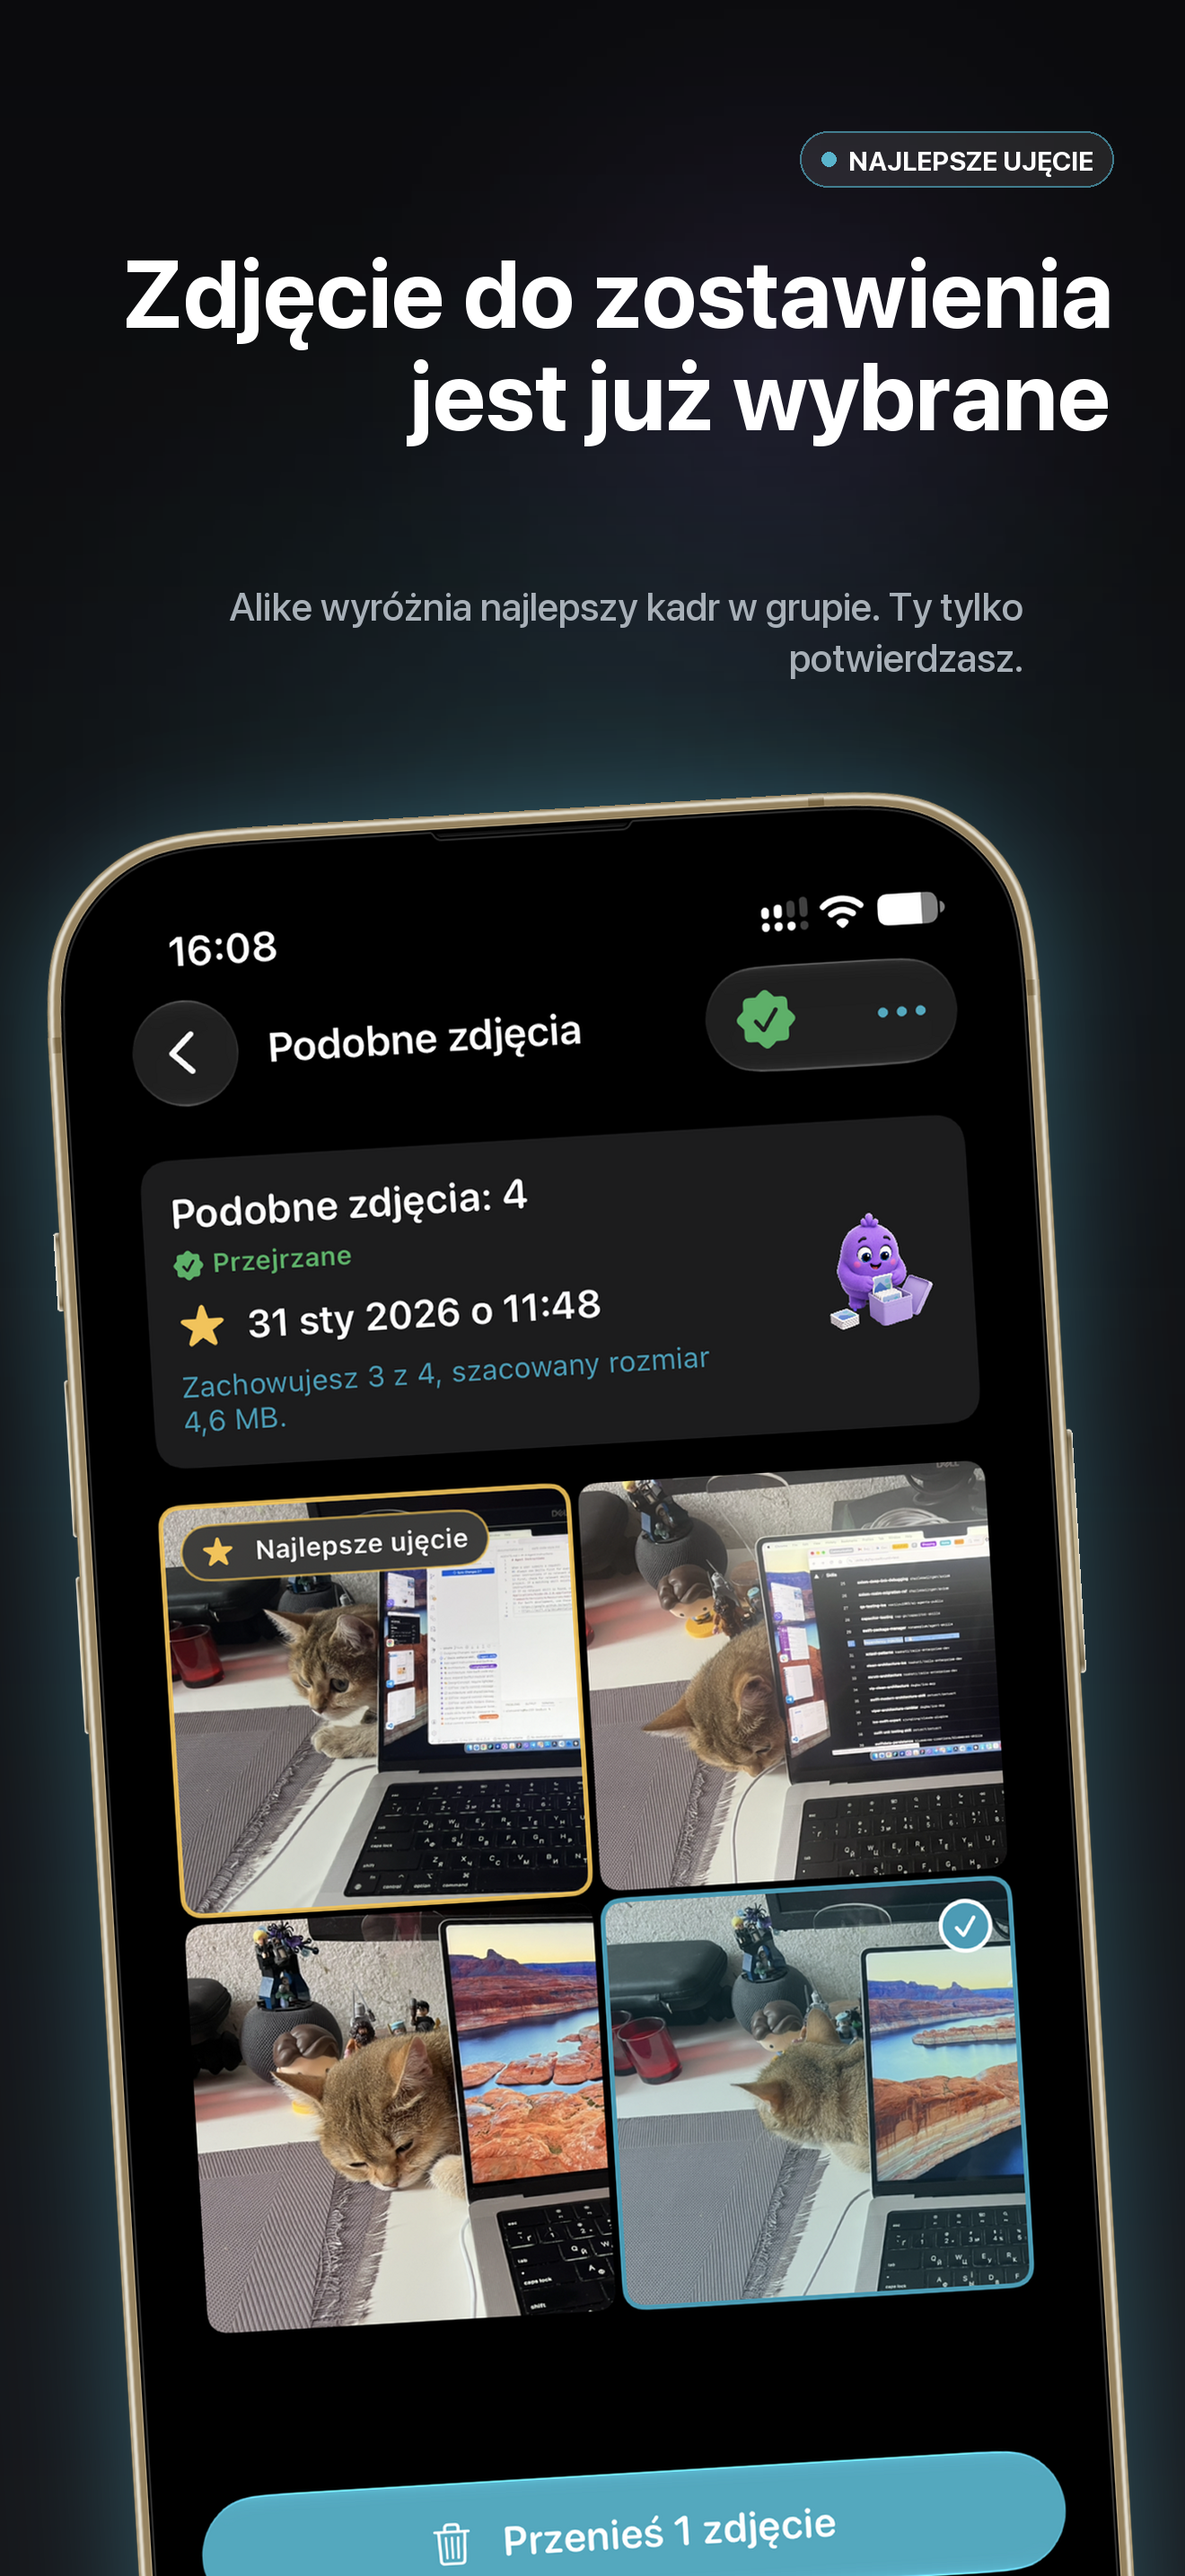
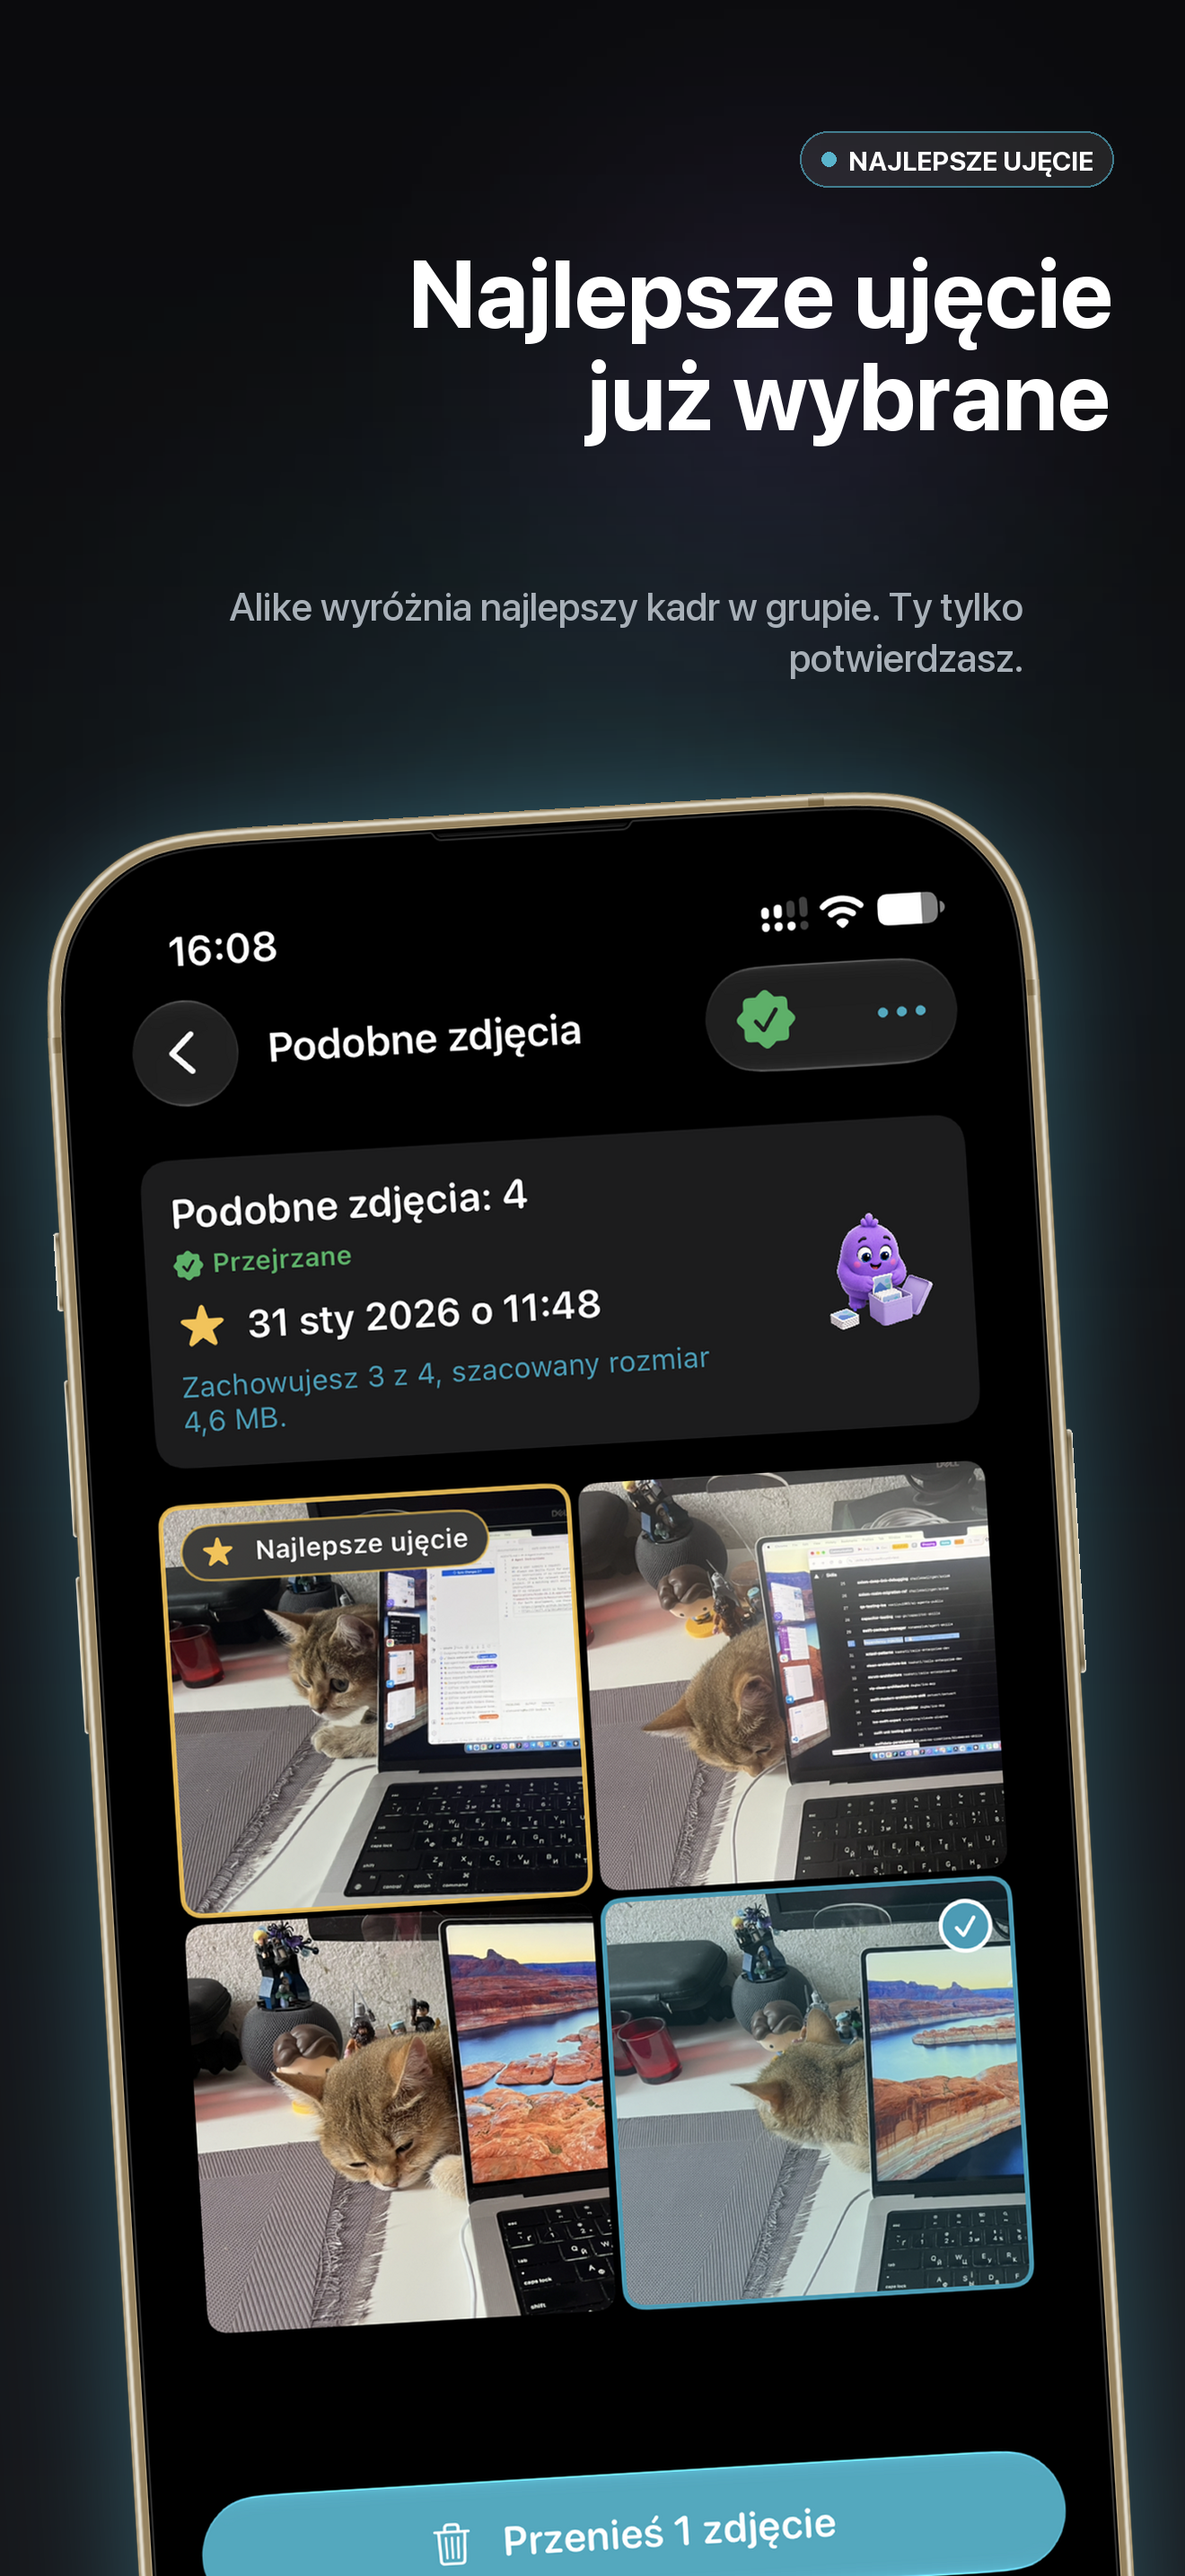
🌐 Polish: correct scan allowances, subscription disclosures and data-preservation wording; review App Store metadata and refresh two screenshot captions

Changed region(s): [[0.0932, 0.0931, 0.7765, 0.1862], [0.8076, 0.0931, 0.9318, 0.1552]]

diff --git a/tools/prepare_app_store_upload_bundle.py b/tools/prepare_app_store_upload_bundle.py
@@ -817,17 +817,16 @@ ALIKE PRO
 
 Alike Pro is een abonnement met automatische verlenging, met een jaar- en een maandplan, geprijsd in je eigen valuta. Het jaarabonnement bevat een gratis proefperiode van 7 dagen voor nieuwe abonnees die daarvoor in aanmerking komen, en de facturering begint zodra de proefperiode afloopt. Abonnementen worden automatisch verlengd, tenzij ze minstens 24 uur voor het einde van de huidige periode worden opgezegd. Het bedrag wordt afgeschreven van je Apple Account. Je kunt je abonnement altijd beheren of opzeggen in de iOS-instellingen."""
 
-PL_DESCRIPTION = """\
-Odzyskaj miejsce, a żadne zdjęcie nie opuści Twojego urządzenia: Alike znajduje prawie identyczne zdjęcia ukryte w Twojej bibliotece, grupuje je, wybiera najlepsze ujęcie w każdej grupie i pomaga uporządkować resztę.
+PL_DESCRIPTION = """Alike grupuje niemal identyczne zdjęcia, wybiera najlepsze i pomaga usunąć resztę. Żadne zdjęcie nie opuszcza iPhone’a.
 
 JAK TO DZIAŁA
 Skanuj. Alike porównuje bibliotekę za pomocą frameworka Vision od Apple, w całości na Twoim iPhonie. Porównywane są zdjęcia zrobione blisko siebie w czasie i miejscu, a zrzuty ekranu nie trafiają do wyników, dopóki o nie nie poprosisz.
-Przejrzyj. Każda grupa otwiera się z już wybranym najlepszym ujęciem, więc decyzja zajmuje sekundy. Zostaw tylko najlepsze, zaznacz wszystkie oprócz najlepszego albo wybierz ręcznie.
-Uporządkuj. Potwierdź, a wybrane zdjęcia trafią do albumu „Ostatnio usunięte”, gdzie iOS trzyma je około 30 dni.
+Przejrzyj. Najlepsze ujęcie jest już wybrane. Zachowaj tylko je, zaznacz wszystkie pozostałe albo wybierz ręcznie.
+Uporządkuj. Potwierdź, a wybrane zdjęcia trafią do albumu „Ostatnio usunięte”, gdzie iOS przechowuje je przez około 30 dni. Miejsce może nie zostać zwolnione, dopóki zdjęcia nie zostaną trwale usunięte.
 
-PRYWATNOŚĆ TO CAŁY SENS
+PRYWATNOŚĆ PRZEDE WSZYSTKIM
 - Cała analiza działa na urządzeniu, na frameworku Vision od Apple.
-- Żadne zdjęcie, miniatura ani odcisk cech nigdy nie jest wysyłany do sieci.
+- Alike nigdy nie wysyła do sieci zdjęć, miniatur ani wektorów cech.
 - Bez konta, bez logowania, bez serwera Alike.
 - Bez analityki, bez śledzenia, bez identyfikatorów reklamowych.
 - Bez reklam w jakiejkolwiek części aplikacji.
@@ -835,7 +834,7 @@ PRYWATNOŚĆ TO CAŁY SENS
 - Nic nie zostaje usunięte bez Twojego wyraźnego potwierdzenia.
 
 ZROBIONE DLA PRAWDZIWYCH BIBLIOTEK
-- Trzy poziomy czułości, od niemal identycznych ujęć po szersze sito.
+- Trzy poziomy czułości, od niemal identycznych ujęć po mniej podobne zdjęcia.
 - Wykrywanie najlepszego ujęcia mierzone na samych zdjęciach — ostrość, ekspozycja, twarze i szum — więc każda grupa ma sensowny domyślny wybór do zachowania.
 - Opcjonalna poprawa jednym dotknięciem dla zdjęcia, które zostawiasz; oryginał zawsze o jedno dotknięcie dalej.
 - Znaczniki przeglądu: Nowe, W trakcie przeglądu, Przejrzane, Wymaga przeglądu.
@@ -845,7 +844,7 @@ ZROBIONE DLA PRAWDZIWYCH BIBLIOTEK
 - Przestronny układ jednokolumnowy albo gęstsza siatka, przełączane w każdej chwili.
 - Przeszukiwalna instrukcja w aplikacji, jedno dotknięcie od Skanera.
 - Opcjonalne przypomnienia o porządkach jako powiadomienia lokalne, według Twojego harmonogramu.
-- Widgety na ekranie początkowym i na ekranie blokady: odzyskiwalne miejsce i biblioteka.
+- Widżety na ekranie początkowym i na ekranie blokady: odzyskiwalne miejsce i biblioteka.
 - Trzynaście języków i pełny tryb ciemny.
 
 TO TY DECYDUJESZ
@@ -855,13 +854,13 @@ TO TY DECYDUJESZ
 - Przyznaj pełny albo ograniczony dostęp: Alike pracuje z tym, czym zdecydujesz się podzielić.
 
 ALIKE FREE
-- 3 skanowania miesięcznie
+- 3 skanowania w miesiącu kalendarzowym
 - Prowadzony przegląd z najlepszym ujęciem
 - Poprawa jednym dotknięciem, zawsze odwracalna
 - Najlepsze ujęcie, które uczy się z Twoich wyborów
 - Sortowanie i historia porządków
 - Porządki po jednym zdjęciu
-- Widgety
+- Widżety
 
 ALIKE PRO
 - 7 dni za darmo w planie rocznym, dla uprawnionych nowych subskrybentów
@@ -872,7 +871,7 @@ ALIKE PRO
 - Zaawansowane filtry
 - Własne przypomnienia o porządkach
 
-Alike Pro to subskrypcja odnawiana automatycznie, w planie rocznym i miesięcznym, w cenach w Twojej walucie. Plan roczny obejmuje 7-dniowy bezpłatny okres próbny dla uprawnionych nowych subskrybentów, a naliczanie opłat zaczyna się po zakończeniu okresu próbnego. Subskrypcje odnawiają się automatycznie, o ile nie zostaną anulowane co najmniej 24 godziny przed końcem bieżącego okresu, a płatność jest pobierana z Twojego konta Apple. Subskrypcją możesz zarządzać lub anulować ją w dowolnym momencie w Ustawieniach iOS."""
+Alike Pro to subskrypcja odnawiana automatycznie, w planie rocznym i miesięcznym, w cenach w Twojej walucie. Plan roczny obejmuje 7-dniowy bezpłatny okres próbny dla uprawnionych nowych subskrybentów, a naliczanie opłat zaczyna się po zakończeniu okresu próbnego. Subskrypcje odnawiają się automatycznie, o ile nie zostaną anulowane co najmniej 24 godziny przed końcem bieżącego okresu, a płatność jest pobierana z Twojego konta Apple. W Ustawieniach iOS możesz w dowolnym momencie zarządzać subskrypcją lub ją anulować."""
 
 TR_DESCRIPTION = """\
 Tek bir fotoğraf bile cihazından çıkmadan yer kazan: Alike, kitaplığında saklanan neredeyse aynı fotoğrafları bulur, gruplar, her grubun en iyi karesini seçer ve geri kalanını temizlemene yardım eder.
@@ -1165,8 +1164,8 @@ METADATA = {
         "subtitle": "Czyszczenie galerii, duplikaty",
         "description": PL_DESCRIPTION,
         "keywords": "usuwanie,zdjec,zdjęcia,podobne,pamieci,telefonu,sortowanie,porządki,miejsce,clean,swipe",
-        "promotional_text": "Odzyskaj miejsce: przed usunięciem widzisz, ile go zwolnisz, a żadne zdjęcie nie opuszcza iPhone'a. Pro: 7 dni gratis w planie rocznym. Bez reklam i bez konta.",
-        "release_notes": "Alike jest gotowy na iOS 27: nowy widżet i szybszy sposób na porządki w zdjęciach.\n\n- Nowy wysoki widżet pokazuje, ile miejsca możesz zwolnić, i Twoje największe grupy, a do tego skróty do „Podobne zdjęcia”, „Zrzuty ekranu” i „Rozmyte zdjęcia”. Dodaj go z galerii widżetów na ekranie początkowym.\n- W grupie przesuń zdjęcie, aby je zaznaczyć, zachować lub ustawić jako najlepsze ujęcie, bez otwierania. Działa to też w „Zrzutach ekranu” i z VoiceOver.\n- Przyciski w „Porządkach” mieszczą się teraz na mniejszych iPhone’ach, a zdjęcia otwierają się płynniej.\n- Obrazek w widżecie zachowuje kolory, gdy ikony na ekranie początkowym są przyciemnione lub przezroczyste.\n\nNowy widżet, przesuwanie i przyciski w „Porządkach” wymagają iOS 27.\n\nWszystko nadal działa na Twoim urządzeniu: bez konta, bez wysyłania czegokolwiek, a to, co uporządkujesz, trafia do „Ostatnio usuniętych”, gdzie iOS trzyma je około 30 dni.\n\nUwagi i zgłoszenia błędów są naprawdę mile widziane — link do pomocy na stronie App Store trafia bezpośrednio do mnie.",
+        "promotional_text": "Zobacz szacowane miejsce do odzyskania. Zdjęcia zostają na iPhonie. Plan roczny: 7 dni Pro gratis dla uprawnionych nowych subskrybentów. Bez reklam i konta.",
+        "release_notes": "Alike jest gotowy na iOS 27: nowy widżet i szybszy sposób na porządki wśród zdjęć.\n\n- Nowy wysoki widżet pokazuje, ile miejsca możesz zwolnić, i Twoje największe grupy, a do tego skróty do kategorii „Podobne zdjęcia”, „Zrzuty ekranu” i „Rozmyte zdjęcia”. Dodaj go z galerii widżetów na ekranie początkowym.\n- W grupie przesuń zdjęcie, aby je zaznaczyć, zachować lub ustawić jako najlepsze ujęcie, bez otwierania. Działa to też w „Zrzutach ekranu” i z VoiceOver.\n- Przyciski w „Porządkach” mieszczą się teraz na mniejszych iPhone’ach, a zdjęcia otwierają się płynniej.\n- Obrazek w widżecie zachowuje kolory, gdy ikony na ekranie początkowym są przyciemnione lub przezroczyste.\n\nNowy widżet, przesuwanie i przyciski w „Porządkach” wymagają iOS 27.\n\nWszystko nadal działa na Twoim urządzeniu: bez konta, bez wysyłania czegokolwiek, a to, co uporządkujesz, trafia do albumu „Ostatnio usunięte”, gdzie iOS przechowuje je przez około 30 dni.\n\nUwagi i zgłoszenia błędów są naprawdę mile widziane — link do pomocy na stronie App Store trafia bezpośrednio do mnie.",
     },
     "tr": {
         "subtitle": "Fotoğraf silme ve temizleyici",

diff --git a/tools/generate_app_store_product_screenshots.py b/tools/generate_app_store_product_screenshots.py
@@ -653,7 +653,7 @@ COPY = {
         (
             "NA URZĄDZENIU",
             "Znajdź zdjęcia,\nktóre są podobne",
-            "Alike skanuje bibliotekę przez Apple Vision, w całości na iPhonie.",
+            "Alike skanuje bibliotekę za pomocą Apple Vision, w całości na iPhonie.",
         ),
         (
             "JEDNA KOLEJKA",
@@ -662,7 +662,7 @@ COPY = {
         ),
         (
             "NAJLEPSZE UJĘCIE",
-            "Zdjęcie do zostawienia\njest już wybrane",
+            "Najlepsze ujęcie\njuż wybrane",
             "Alike wyróżnia najlepszy kadr w grupie. Ty tylko potwierdzasz.",
         ),
         (

diff --git a/Docs/legal/subscription-disclosure.md b/Docs/legal/subscription-disclosure.md
@@ -128,7 +128,7 @@ Rendered by `disclosure` in
 
 **PL**
 
-> Plan roczny obejmuje 7-dniowy bezpłatny okres próbny dla uprawnionych nowych subskrybentów. Naliczanie opłat zaczyna się po zakończeniu okresu próbnego, chyba że anulujesz subskrypcję co najmniej 24 godziny wcześniej. Subskrypcją możesz zarządzać lub anulować ją w dowolnym momencie w Ustawieniach iOS.
+> Plan roczny obejmuje 7-dniowy bezpłatny okres próbny dla uprawnionych nowych subskrybentów. Naliczanie opłat zaczyna się po zakończeniu okresu próbnego, chyba że anulujesz subskrypcję co najmniej 24 godziny wcześniej. W Ustawieniach iOS możesz w dowolnym momencie zarządzać subskrypcją lub ją anulować.
 
 **TR**
 
